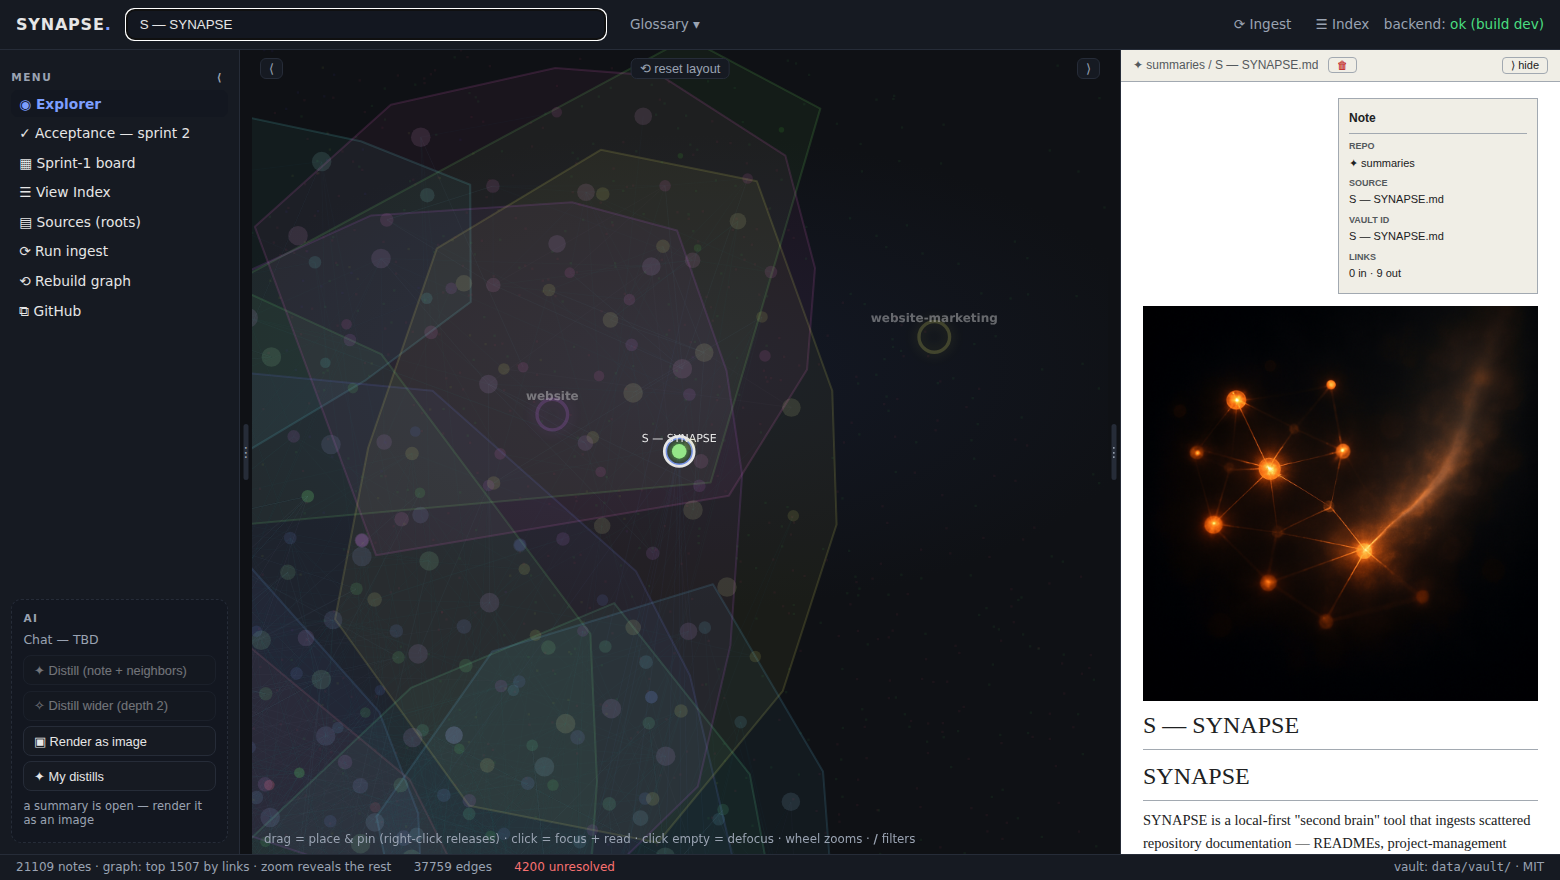
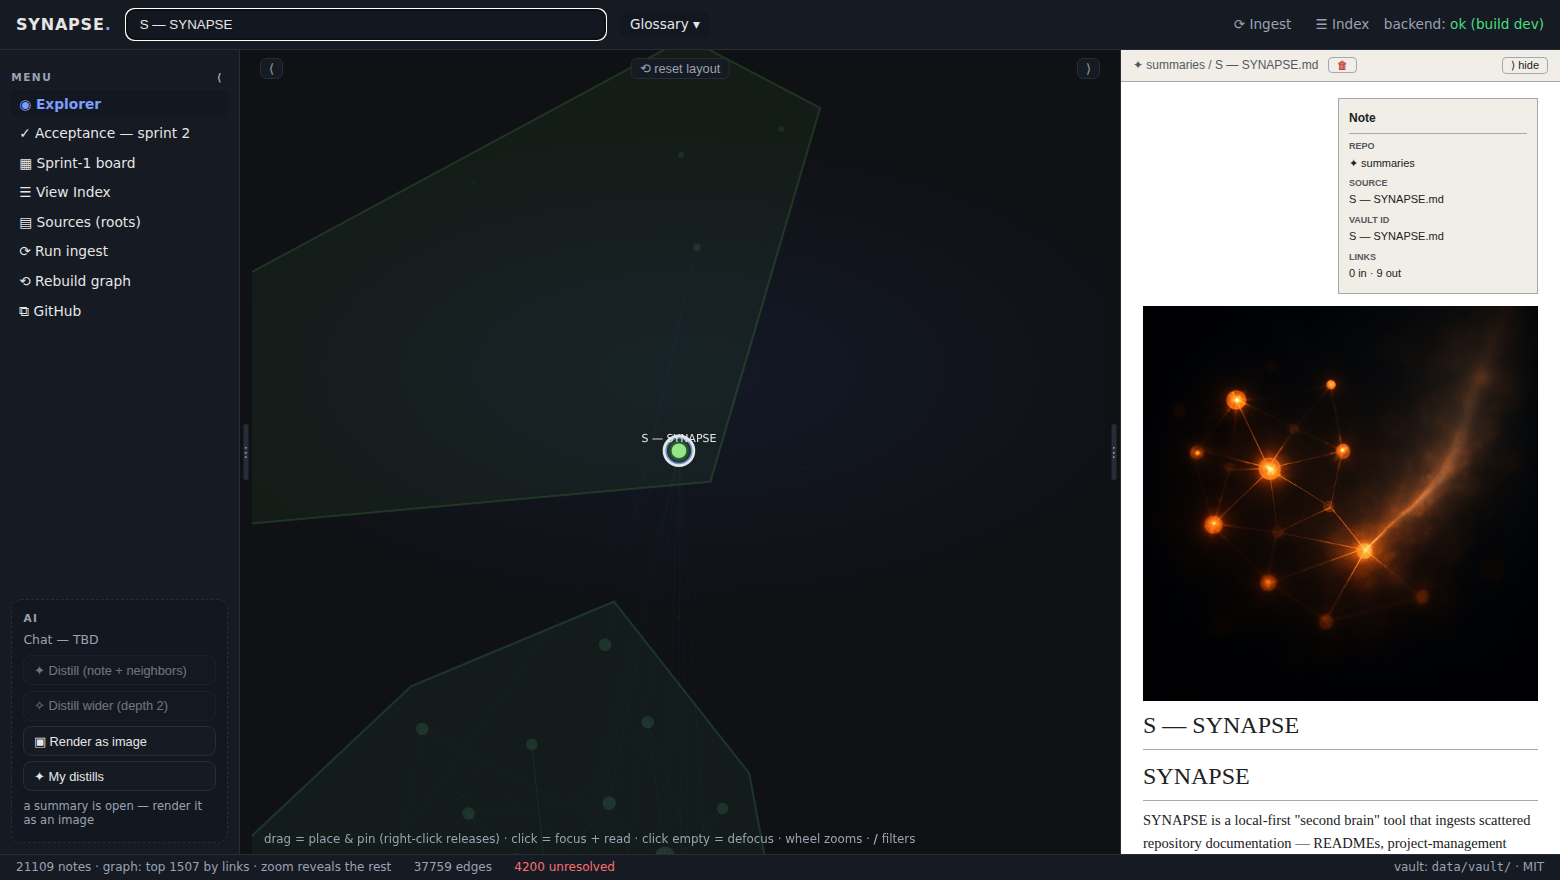
docs(readme): zero-leak screenshots — self-ingested hero + panel, scoped distill shot
Hero and distills panel re-shot on the DEFAULT self-ingested vault (what a
fresh clone shows — only this repo's own doc titles visible); the distill-
render shot re-taken with foreign source groups hidden. No internal project
names remain in any README image. Hero alt-text updated to match.

Discovered en route: a repo that CONTAINS a vault directory gets notes-of-
notes ingested when the configured vault lives elsewhere (data/ is
gitignored so fresh clones are unaffected) — v0.2 backlog candidate.

Claude-Session: https://claude.ai/code/session_01Q1F4YQdrjyWNg67bQZBKu8

diff --git a/README.md b/README.md
@@ -19,7 +19,7 @@ your brain knows.
 > every CLI). · Concept: natural20.com's
 > ["second brain / LLM wiki"](https://natural20.com/using-claude-code-to-setup-a-second-brain-aka-llm-wiki).
 
-![The SYNAPSE explorer — a 21,000-note whole-workspace brain, one colored constellation per project](docs/screenshots/explorer-hero.png)
+![The SYNAPSE explorer on its own repository — the default self-ingested brain a fresh clone gives you (point Sources at your own repos and it scales past 21,000 notes)](docs/screenshots/explorer-hero.png)
 
 ## The loop
 